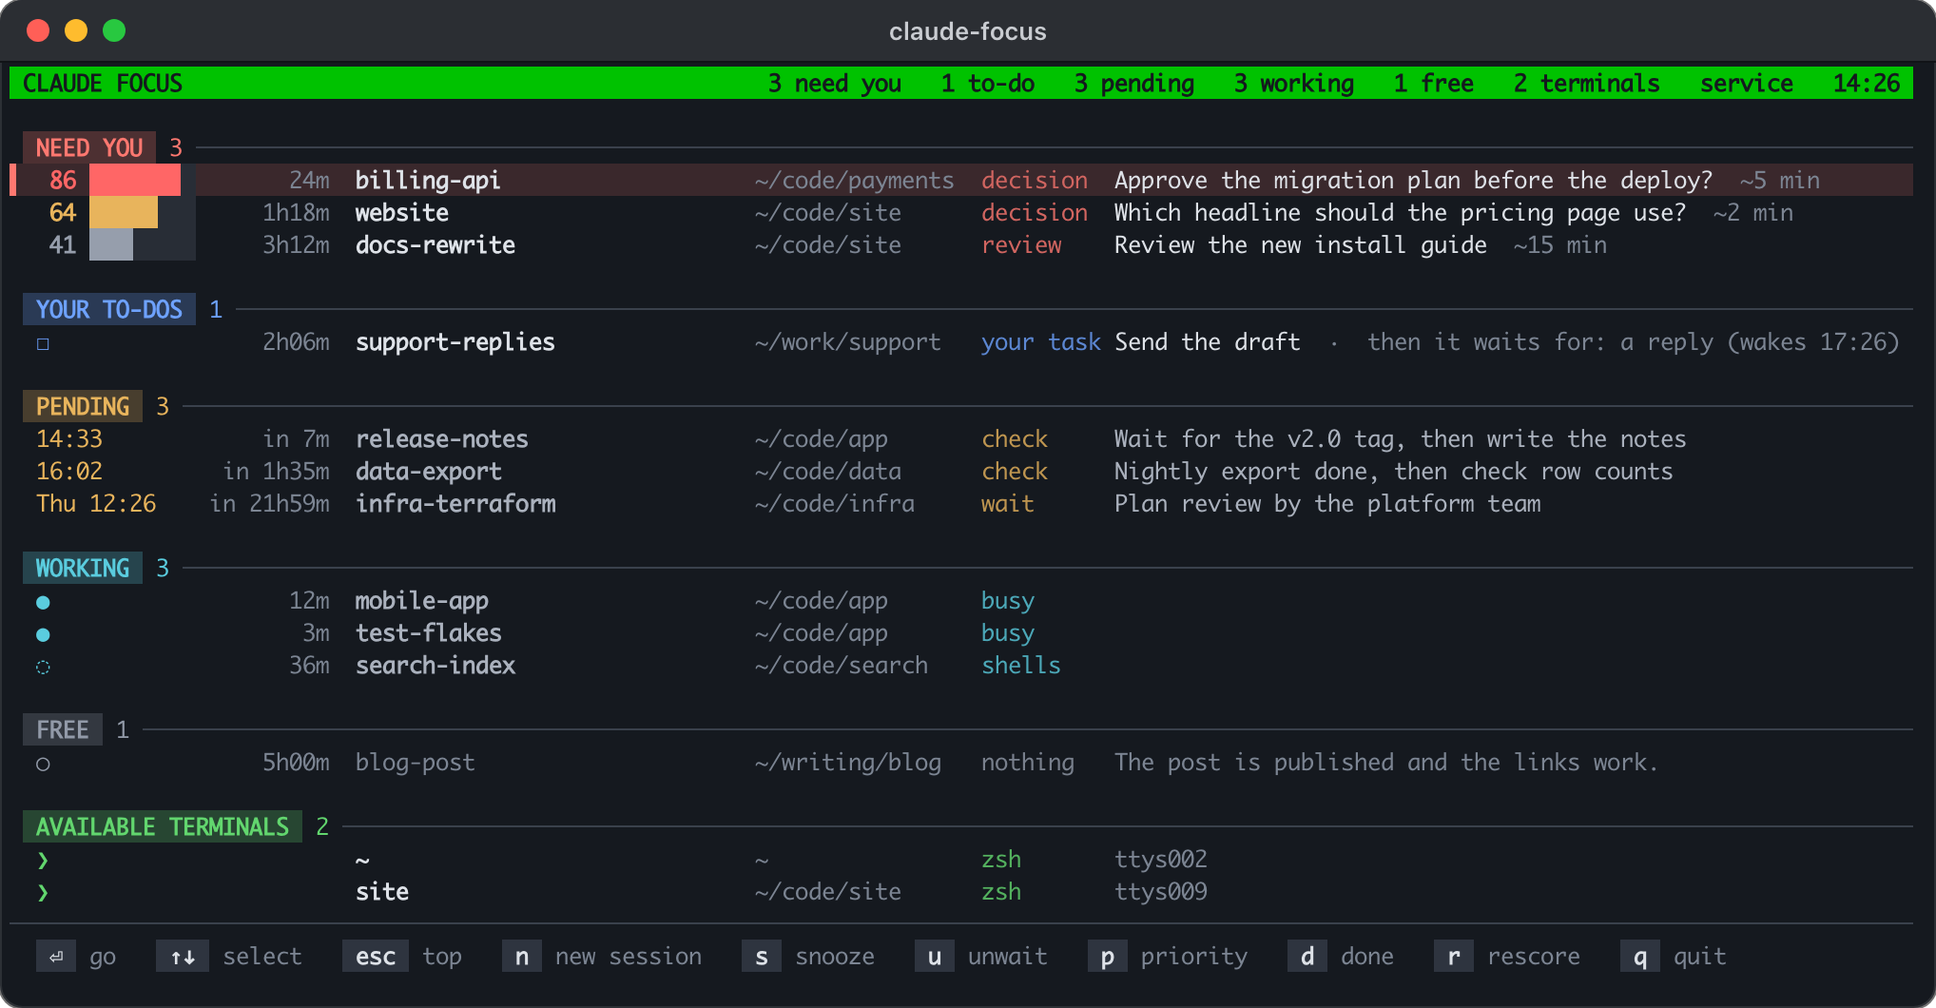
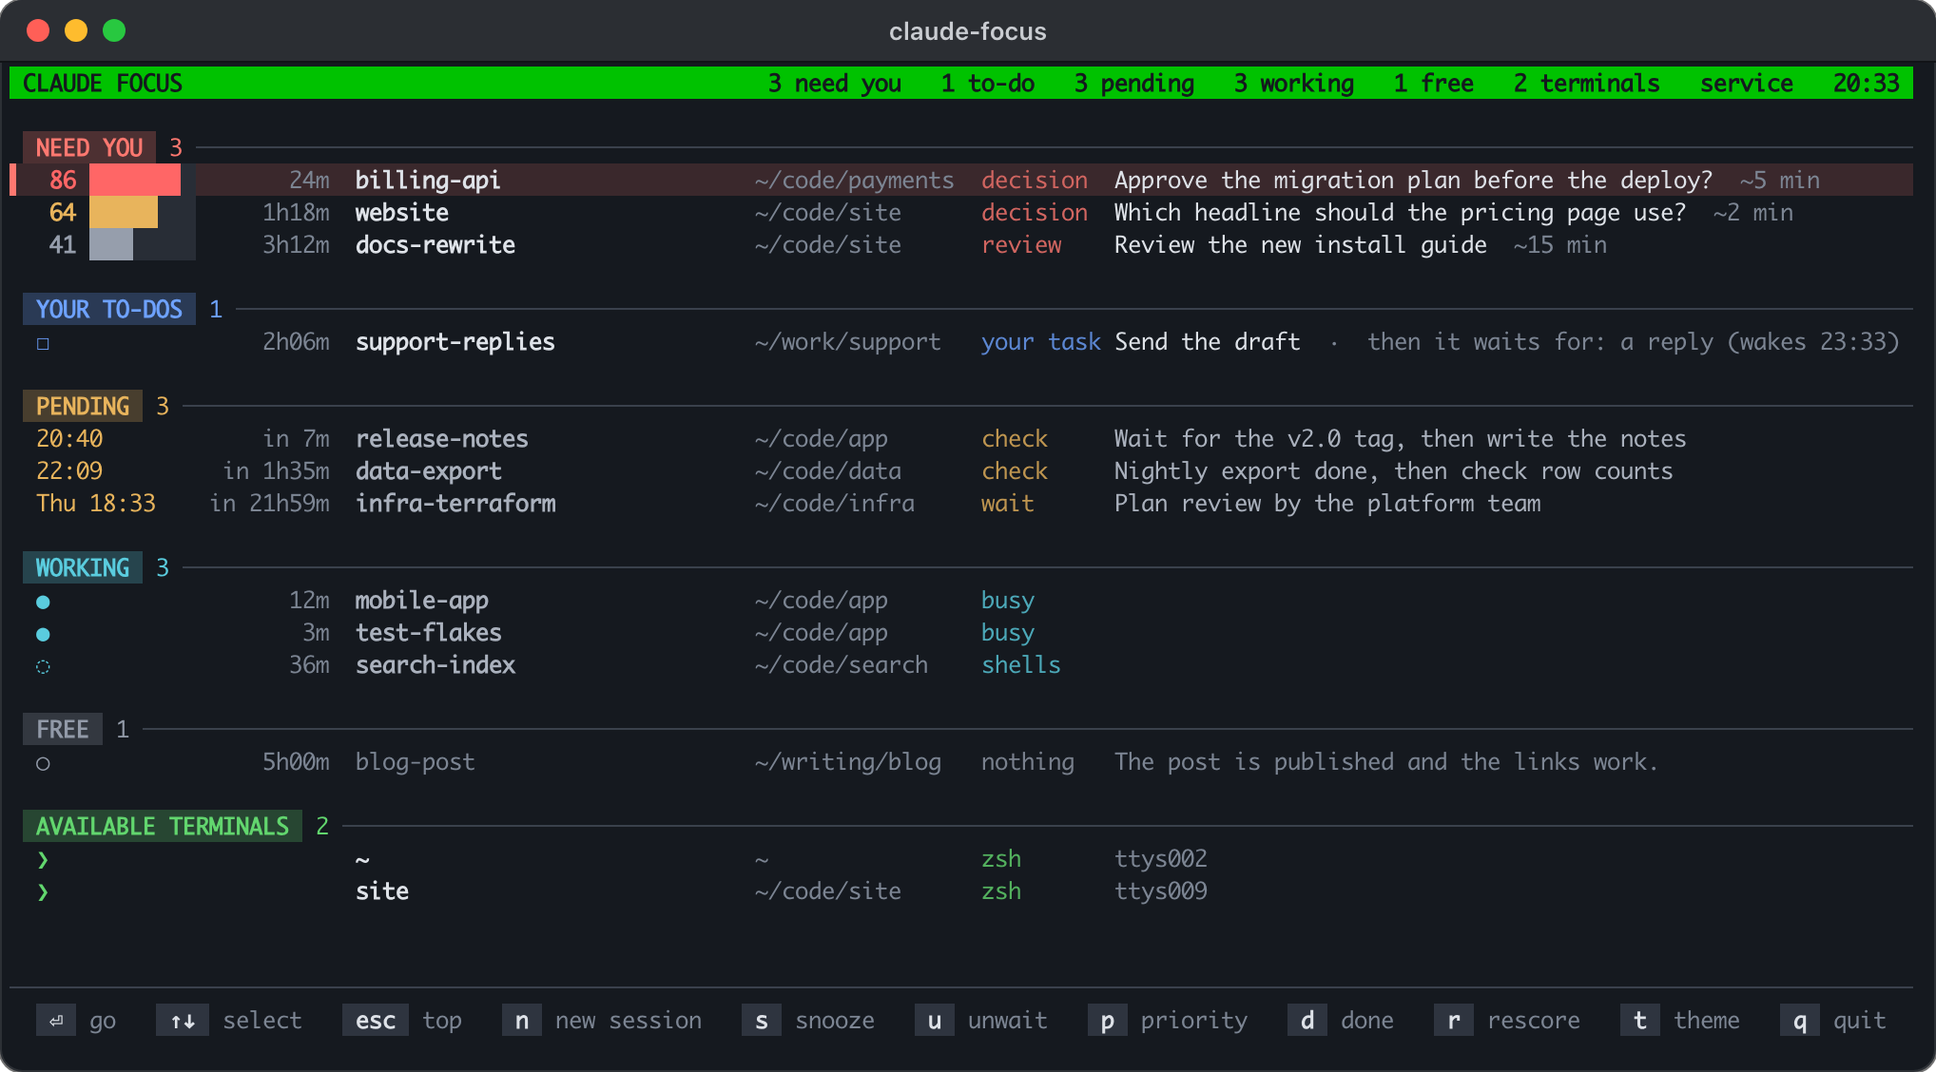
Focus screen: themes, with a Norton Commander theme
A theme is a pair of palettes (dark and light appearance) in
look.THEMES; config "theme" picks one, and t on the focus screen
switches to the next and saves it. "default" is the look so far and
draws exactly as before. "norton" is Norton Commander: a blue screen it
paints itself (\033[K fills the last column), the list in a double-line
frame with ╟─ section ─╢ dividers, a black-on-cyan selection bar and
title bar, and a key bar with white-on-black keys and black-on-cyan
labels. A few palette keys (paint, frame, select, bar, keys, keys_bg)
say how a theme is drawn; the default palettes have none. The folder
picker and the start step draw inside the frame too. README: a Themes
section, the t key, the theme config row, both screenshots at 30 rows.

diff --git a/claude_focus/app.py b/claude_focus/app.py
@@ -151,7 +151,8 @@ class App:
         self.seen_written = 0     # Unix ms of the last write of state["seen"]
         self.terminals = []       # the free terminals (see _free_terminals); only a focus window reads them
         self.claude_panes = {}    # iterm session id -> (session name, Unix s last seen) of panes that ran a session
-        self.pal = look.DARK      # the colors of the terminal's theme now
+        self.pal = look.DARK      # the colors now: config "theme" for the terminal's appearance
+        self.appearance = "dark"  # the terminal's appearance (bridge.theme)
         self.pick = None          # the folder picker: {"term": free terminal, "sel": row}
         self.folders = []         # its folders (see folders.candidates)
         self.matches = []         # the folders that match what the user typed (self.buf)
@@ -166,7 +167,8 @@ class App:
         await self.bridge.refresh()
         if not self.headless and not self.passive:
             self.terminals = await self._free_terminals()
-            self.pal = look.palette(await self.bridge.theme())
+            self.appearance = await self.bridge.theme()
+            self.pal = look.palette(self.appearance, self.cfg["theme"])
         # The service is the preferred engine. A focus window is the engine
         # only while no service runs, and it hands the role back when one does.
         if self.engine and not self.headless and pend.service_alive():
@@ -750,6 +752,17 @@ class App:
         self.sel = None
         await self.bridge.go(term["pane"], zoom=self.cfg["zoom"])
 
+    def next_theme(self):
+        """Key t: the next theme of look.THEMES, kept in the config."""
+        names = list(look.THEMES)
+        now = self.cfg["theme"]
+        name = names[(names.index(now) + 1) % len(names)] if now in names else names[0]
+        self.cfg["theme"] = name
+        self.pal = look.palette(self.appearance, name)
+        store.ensure()
+        store._write(store.CONFIG, dict(store._read(store.CONFIG, {}), theme=name))
+        self.flash(f"Theme: {name}. t switches to the next one ({', '.join(names)}).")
+
     def _update_selected(self, fn, done_text):
         sec, item = self.selected()
         if not item:
@@ -854,6 +867,8 @@ class App:
                 self.sel = None
             elif key == "n":
                 await self.pick_folder()
+            elif key == "t":
+                self.next_theme()
             elif sec == "terminals" and key in ("s", "p", "d", "u", "r"):
                 self.flash("A free terminal: Enter starts a new session in it.")
             elif key == "s" and item:
@@ -1058,12 +1073,32 @@ class App:
         if cols["kind"]:
             line += look.pad(f"{fg(mix(P[sec], P['bg'], 0.8))}{look.cut(kind, cols['kind'])}{R}", cols["kind"]) + " "
         line += "".join(t + "  " for t in tags) + fg(P[text_tone]) + text + R
-        return look.on(line, mix(P[sec], P["bg"], 0.16), w) if selected else fit(line, w)
+        return self._on(line, P[sec], w) if selected else fit(line, w)
+
+    def _on(self, line, color, w):
+        """The selected row: on a tint of its section's color; in a theme with
+        a selection bar (Norton Commander), all in the bar's colors."""
+        P = self.pal
+        if P.get("select"):
+            text, back = P["select"]
+            return look.on(fg(text) + look.ANSI.sub("", line), back, w)
+        return look.on(line, mix(color, P["bg"], 0.16), w)
 
     def section_title(self, sec, title, n, w):
         P, acc = self.pal, self.pal[sec]
-        head = f" {bg(mix(acc, P['bg'], 0.24))}{fg(acc)}{B} {title} {R} {fg(acc)}{n}{R} "
+        count = f" {fg(acc)}{n}{R}" if n != "" else ""  # "": a title without a count (the start step)
+        if P.get("frame"):  # a divider of the frame: ╟─ NEED YOU 3 ───╢ (see _framed)
+            head = f"{fg(P['frame'])}─ {fg(acc)}{B}{title}{R}{count} "
+            return head + fg(P["frame"]) + "─" * max(0, w - width(head)) + R
+        head = f" {bg(mix(acc, P['bg'], 0.24))}{fg(acc)}{B} {title} {R}{count} "
         return head + fg(P["faint"]) + "─" * max(0, w - width(head)) + R
+
+    def _framed(self, line, inner):
+        """A line of the list inside the theme's frame. A section title (it
+        starts with ─) joins the frame as a divider."""
+        fc = fg(self.pal["frame"])
+        side = "╟╢" if look.ANSI.sub("", line).startswith("─") else "║║"
+        return f"{fc}{side[0]}{R}" + look.pad(fit(line, inner), inner) + f"{fc}{side[1]}{R}"
 
     def _title_line(self, v, w, now):
         P = self.pal
@@ -1077,7 +1112,8 @@ class App:
         if self.focused:  # a full-width green bar: this window gets the keys
             right = "   ".join([f"{n} {COUNT_LABEL[sec]}" for sec, n in counts] + extra + [clock])
             gap = " " * max(1, w - 14 - len(right))
-            return f"{FOCUS_BAR} CLAUDE FOCUS{gap}{right} {R}"
+            bar = fg(P["bar"][0]) + bg(P["bar"][1]) + B if P.get("bar") else FOCUS_BAR
+            return f"{bar} CLAUDE FOCUS{gap}{right} {R}"
         parts = [f"{fg(P[sec]) if n else fg(P['faint'])}{B}{n}{R} {fg(P['dim'])}{COUNT_LABEL[sec]}{R}"
                  for sec, n in counts]
         right = "   ".join(parts + [f"{fg(P['dim'])}{x}{R}" for x in extra] + [f"{fg(P['text'])}{clock}{R}"])
@@ -1099,7 +1135,7 @@ class App:
             on = self._creating()
             line = (f"{fg(acc)}▌{R} " if on else "  ") + f"{fg(acc)}{B}+ new folder{R} " \
                 f"{fg(P['text'] if on else P['soft'])}{look.cut_left(short_path(self.new_folder), w - 20)}{R}"
-            new = [look.on(line, mix(acc, P["bg"], 0.16), w) if on else line]
+            new = [self._on(line, acc, w) if on else line]
         if not self.matches:
             return lines + [f"  {dim}No folder matches.{R}"] + new
         sel = min(self.pick["sel"], len(self.matches) - 1)
@@ -1116,7 +1152,7 @@ class App:
             body = "".join(f"{fg(acc)}{B}{c}{R}" if i in hit else f"{tone}{c}{R}" for i, c in enumerate(text))
             age = ago(when) if used else "no recent session"
             line = (f"{fg(acc)}▌{R} " if selected else "  ") + look.pad(body, pw) + f"  {dim}{age}{R}"
-            lines.append(look.on(line, mix(acc, P["bg"], 0.16), w) if selected else line)
+            lines.append(self._on(line, acc, w) if selected else line)
         return lines + new
 
     def _start_lines(self, w):
@@ -1138,7 +1174,7 @@ class App:
             line = ((f"{fg(acc)}▌{R} " if on else "  ") + f"{fg(acc)}{B}{key}{R}  "
                     f"{fg(P['text'] if on else P['soft'])}{look.pad(label, lw)}{R}"
                     f"   {dim}{self.cfg['new_session_command']}{flags}{R}")
-            lines.append(look.on(line, mix(acc, P["bg"], 0.16), w) if on else line)
+            lines.append(self._on(line, acc, w) if on else line)
         return lines
 
     def render(self):
@@ -1157,11 +1193,13 @@ class App:
             top_lines.append(f"  {fg(P['pending'])}{B}{n} window{'s' if n != 1 else ''} from before the iTerm2 "
                              f"restart {'are' if n != 1 else 'is'} closed (layout saved {when}). "
                              f"Press R to restore them.{R}")
-        top_lines.append("")
+        frame = P.get("frame")  # a theme that frames the list (Norton Commander): two columns less inside
+        inner = w - 2 if frame else w
+        top_lines.append(f"{fg(frame)}╔{'═' * inner}╗{R}" if frame else "")
 
         # The keys are the last line of the screen, the flash just above the rule.
         bottom_lines = [f"  {fg(P['working'])}{self.msg}{R}" if self.msg and time.time() < self.msg_until else "",
-                        fg(P["faint"]) + "─" * w + R]
+                        f"{fg(frame)}╚{'═' * inner}╝{R}" if frame else fg(P["faint"]) + "─" * w + R]
         if self.mode == "restore" and self.restore_lines:
             bottom_lines += [f"  {fg(P['pending'])}{B}{self.restore_lines[0]}{R}"]
             bottom_lines += [f"  {fg(P['text'])}{line}{R}" for line in self.restore_lines[1:]] + [""]
@@ -1172,9 +1210,9 @@ class App:
         sec, item = self.selected()
         list_lines, sel_line = [], None
         if self.mode == "folders":
-            list_lines = self._folder_lines(w, room)
+            list_lines = self._folder_lines(inner, room)
         elif self.mode == "start":
-            list_lines = self._start_lines(w)
+            list_lines = self._start_lines(inner)
         elif not self.rows():
             list_lines += [f"  {fg(P['dim'])}No Claude sessions and no free terminal.{R}"]
         elif not v.get("need") and not v.get("todo"):
@@ -1184,11 +1222,11 @@ class App:
                 continue
             if list_lines:
                 list_lines.append("")
-            list_lines.append(self.section_title(key, title, len(v[key]), w))
+            list_lines.append(self.section_title(key, title, len(v[key]), inner))
             for i in v[key]:
                 if i is item:
                     sel_line = len(list_lines)
-                list_lines.append(self.row(key, i, w, selected=i is item))
+                list_lines.append(self.row(key, i, inner, selected=i is item))
         start = 0
         if len(list_lines) > room and sel_line is not None and sel_line >= room - 1:
             start = min(sel_line - room + 2, len(list_lines) - room)
@@ -1196,18 +1234,27 @@ class App:
         if start + room < len(list_lines):
             shown[-1] = f"  {fg(P['dim'])}… {len(list_lines) - start - room + 1} more lines (↓){R}"
         shown += [""] * (room - len(shown))  # a short list: blank lines push the keys down
-        lines =[fit(x, w) for x in top_lines + shown + bottom_lines]
+        if frame:
+            shown = [self._framed(x, inner) for x in shown]
+            bottom_lines[0] = self._framed(bottom_lines[0], inner)
+        lines = [fit(x, w) for x in top_lines + shown + bottom_lines]
+        if P.get("paint"):  # every line on the theme's background, the keys on theirs; \033[K fills the rest
+            lines = [look.on(x, P["keys_bg"] if n == len(lines) - 1 else P["bg"], w)[:-len(R)]
+                     for n, x in enumerate(lines)]
         frame = "\n".join(lines)
         if frame == self.last_frame:
             return
         self.last_frame = frame
         # Synchronized update + overwrite in place (no full clear): no flicker.
         body = "\033[K\n".join(lines)
-        sys.stdout.write("\033[?2026h\033[H" + body + "\033[K\033[J\033[?2026l")
+        sys.stdout.write("\033[?2026h\033[H" + body + "\033[K\033[J" + R + "\033[?2026l")
         sys.stdout.flush()
 
     def _key(self, cap, label):
         P = self.pal
+        if P.get("keys"):  # a key bar: the key, then its label in a field of its own
+            cap_fg, cap_bg, label_fg, label_bg = P["keys"]
+            return f"{bg(cap_bg)}{fg(cap_fg)}{B}{cap}{R}{bg(label_bg)}{fg(label_fg)} {label} {R}"
         return f"{bg(P['key'])}{fg(P['text'])}{B} {cap} {R} {fg(P['dim'])}{label}{R}"
 
     def _keys_line(self, now):
@@ -1236,13 +1283,16 @@ class App:
                                      self._key("↑↓", "select"), self._key("⇥", "just go to the terminal"),
                                      self._key("esc", "cancel")])
         keys = [("⏎", "go"), ("↑↓", "select"), ("esc", "top"), ("n", "new session"), ("s", "snooze"),
-                ("u", "unwait"), ("p", "priority"), ("d", "done"), ("r", "rescore"), ("q", "quit")]
+                ("u", "unwait"), ("p", "priority"), ("d", "done"), ("r", "rescore"), ("t", "theme"),
+                ("q", "quit")]
         if self.cfg.get("hotkeys"):
             hk = self.cfg["hotkey_go"].replace("ctrl", "⌃").replace("option", "⌥").replace("+", "").upper()
             keys.insert(3, (hk, "go to top"))
         wide = "  " + "   ".join(self._key(c, label) for c, label in keys)
         if width(wide) <= shutil.get_terminal_size((100, 40)).columns - 1:
             return wide
+        if P.get("keys"):  # the key bar keeps its fields, with one-word labels
+            return " " + " ".join(self._key(c, label.split()[-1]) for c, label in keys)
         return "  " + "  ".join(f"{fg(P['text'])}{B}{c}{R} {fg(P['dim'])}{label.split()[-1]}{R}" for c, label in keys)
 
     # ---- loops ------------------------------------------------------------

diff --git a/tests/test_render.py b/tests/test_render.py
@@ -1,3 +1,4 @@
+import asyncio
 import contextlib
 import io
 import os
@@ -206,6 +207,49 @@ class LayoutTest(unittest.TestCase):
         self.app.pal = look.palette("light highContrast")
         raw = "\n".join(self.screen([self.short], "short", raw=True))
         self.assertIn(look.bg(look.mix(look.LIGHT["need"], look.LIGHT["bg"], 0.16)), raw)
+
+
+class ThemeTest(unittest.TestCase):
+    """Themes (config "theme", key t): the default one, and Norton Commander."""
+
+    setUp, screen = LayoutTest.setUp, LayoutTest.screen
+
+    def test_palettes(self):
+        self.assertIs(look.palette("dark"), look.DARK)
+        self.assertIs(look.palette("light", "default"), look.LIGHT)
+        self.assertIs(look.palette("light", "norton"), look.NORTON)  # blue in a light terminal too
+        self.assertIs(look.palette("dark", "no-such-theme"), look.DARK)
+
+    def test_t_switches_and_keeps_the_theme(self):
+        self.app.flash = mock.Mock()
+        self.assertEqual(self.app.cfg["theme"], "default")
+        asyncio.run(self.app.on_key("t"))
+        self.assertEqual((self.app.cfg["theme"], self.app.pal), ("norton", look.NORTON))
+        self.assertEqual(appmod.store.load_config()["theme"], "norton")
+        self.assertIn("Theme: norton", self.app.flash.call_args[0][0])
+        asyncio.run(self.app.on_key("t"))  # and round again
+        self.assertEqual((self.app.pal, appmod.store.load_config()["theme"]), (look.DARK, "default"))
+
+    def test_norton_commander(self):
+        self.app.pal = look.NORTON
+        raw = self.screen([self.short, self.long], "short", lines=30, raw=True)
+        screen = [ANSI.sub("", x) for x in raw]
+        self.assertEqual(len(screen), 30)
+        self.assertTrue(all(len(x) == 119 for x in screen))  # every line painted to the full width
+        self.assertTrue(all(x.startswith(look.bg(look.NORTON["bg"])) for x in raw[1:-1]))  # raw[0]: \033[H first
+        self.assertTrue(raw[-1].startswith(look.bg(look.NORTON["keys_bg"])))  # the key bar
+        self.assertTrue(screen[1].startswith("╔═") and screen[1].endswith("═╗"))
+        self.assertTrue(screen[-2].startswith("╚═") and screen[-2].endswith("═╝"))
+        self.assertTrue(all(x[0] in "║╟" and x[-1] in "║╢" for x in screen[2:-2]))
+        self.assertTrue(any(x.startswith("╟─ NEED YOU 1 ─") for x in screen))
+        row = next(x for x in raw if "short" in ANSI.sub("", x))
+        self.assertIn(look.bg((0, 170, 170)) + look.fg((0, 0, 0)), row)  # the selection bar: black on cyan
+        self.assertIn("go", screen[-1])
+
+    def test_the_default_theme_has_no_frame_and_no_paint(self):
+        raw = self.screen([self.short], "short", lines=30, raw=True)
+        self.assertFalse(any("║" in x or "╔" in x for x in raw))
+        self.assertNotIn(look.bg(look.DARK["bg"]), "".join(raw))
 
 
 class FormatTest(unittest.TestCase):

diff --git a/claude_focus/look.py b/claude_focus/look.py
@@ -1,8 +1,9 @@
 """Colors and small drawing helpers for the focus screen. It uses 24-bit
-color (iTerm2 has it), with one palette for iTerm2's dark theme and one for
-its light theme. Each section has its own color: NEED YOU coral, YOUR
-TO-DOS blue, PENDING amber, WORKING cyan, FREE grey, free terminals green.
-The screen needs no iTerm2 profile for them."""
+color (iTerm2 has it). A theme (THEMES, config "theme") has one palette for
+the terminal's dark appearance and one for its light one. In the default
+theme each section has its own color: NEED YOU coral, YOUR TO-DOS blue,
+PENDING amber, WORKING cyan, FREE grey, free terminals green. The screen
+needs no iTerm2 profile for them."""
 import re
 
 ANSI = re.compile(r"\x1b\[[0-9;?]*[A-Za-z]")
@@ -40,10 +41,32 @@ LIGHT = {
     "high": (200, 40, 40), "mid": (168, 104, 0), "low": (118, 126, 138),
 }
 
+# Norton Commander: the 16 colors of a DOS screen, the same in a dark and a
+# light terminal. Besides the colors, the keys below say how App.render
+# draws a theme; the default theme has none of them.
+NORTON = {
+    "bg": (0, 0, 170),
+    "text": (255, 255, 255), "soft": (85, 255, 255), "dim": (0, 170, 170), "faint": (0, 170, 170),
+    "track": (0, 0, 110), "key": (0, 0, 0), "alert": (255, 85, 85),
+    "need": (255, 255, 85), "todo": (255, 255, 255), "pending": (255, 85, 255),
+    "working": (85, 255, 255), "free": (0, 170, 170), "terminals": (85, 255, 85),
+    "high": (255, 85, 85), "mid": (255, 255, 85), "low": (0, 170, 170),
+    "paint": True,                         # the screen paints its own background (else the terminal's shows)
+    "frame": (85, 255, 255),               # the list in a double-line frame of this color
+    "select": ((0, 0, 0), (0, 170, 170)),  # the selected row all in these colors: black on cyan
+    "bar": ((0, 0, 0), (0, 170, 170)),     # the title bar while the window has the keys
+    "keys": ((255, 255, 255), (0, 0, 0), (0, 0, 0), (0, 170, 170)),  # a key white on black, its label black on cyan
+    "keys_bg": (0, 0, 0),                  # the line of the keys
+}
+THEMES = {"default": (DARK, LIGHT), "norton": (NORTON, NORTON)}  # name -> (dark, light); key t switches
 
-def palette(theme):
-    """iTerm2's effectiveTheme ("dark", "light", "light highContrast", ...)."""
-    return LIGHT if "light" in (theme or "") else DARK
+
+def palette(appearance, theme="default"):
+    """The palette of a theme (an unknown name: the default) for the
+    terminal's appearance: iTerm2's effectiveTheme ("dark", "light",
+    "light highContrast", ...), or macOS's in herdr."""
+    dark, light = THEMES.get(theme) or THEMES["default"]
+    return light if "light" in (appearance or "") else dark
 
 
 def width(s):

diff --git a/claude_focus/store.py b/claude_focus/store.py
@@ -34,6 +34,7 @@ DEFAULT_CONFIG = {
     "hotkeys": False,                   # iTerm2: only in a focus window; not in the service
     "hotkey_go": "ctrl+option+n",
     "hotkey_focus_window": "ctrl+option+f",
+    "theme": "default",                 # the focus screen's look: "default" or "norton" (look.THEMES); key t switches
     "zoom": True,
     "return_after_answer": True,        # after Enter on a question: come back when it is answered
     "free_profile": "Available",        # the iTerm2 profile (the green one) of a free terminal

diff --git a/README.md b/README.md
@@ -200,12 +200,30 @@ more amber, and the rest grey. Alerts are red: a wake-up that could not be
 typed, a duplicate window, a session without a pane. What needs you is
 bright, PENDING and WORKING are softer, and FREE is grey. The selected row
 has a tinted background and a ▌ at the left. The screen uses 24-bit color
-and follows the theme: iTerm2's, or macOS's in herdr.
+and follows the terminal's dark or light appearance: iTerm2's, or macOS's
+in herdr.
+
+### Themes
+
+`t` switches to the next theme and keeps it in the config (`"theme"`).
+There are two:
+
+- `default`: the look described above, on the terminal's own background.
+- `norton`: Norton Commander. Blue background, the list in a double-line
+  frame, a black-on-cyan selection bar and title bar, and the keys in a
+  black-and-cyan key bar. It is the same in a dark and a light terminal.
+
+![The Norton Commander theme](docs/screenshot-norton.png)
+
+A theme is a palette in
+[claude_focus/look.py](claude_focus/look.py) (`THEMES`). A few keys in it
+change how the screen is drawn: `paint` (the screen paints its own
+background), `frame`, `select`, `bar`, `keys` and `keys_bg`.
 
 The selection starts on the first row of NEED YOU (else of YOUR TO-DOS).
 After Enter, it goes back there. The rows never move when the selection
 moves; a long list scrolls to keep the selected row visible. While the focus
-screen has the keys, its title bar is green.
+screen has the keys, its title bar is green (cyan in the Norton theme).
 
 ### Keys
 
@@ -221,6 +239,7 @@ screen has the keys, its title bar is green.
 | d | Done: nothing is needed now; the session comes back when it changes. On a to-do: your part is done |
 | r | Score the selected session again |
 | R | iTerm2: restore the windows of the last iTerm2 run (shown only when some are closed) |
+| t | Switch to the next theme (see "Themes") |
 | q | Quit |
 
 From anywhere: in iTerm2, two optional global hotkeys (`"hotkeys": true` in
@@ -548,6 +567,7 @@ remote machine show without a pane.
 | `poll_seconds` | `3` | How often the state is read |
 | `aging_points_per_hour`, `aging_max` | `0.15`, `10` | The bonus for waiting |
 | `terminal` | `"auto"` | `"auto"`, `"iterm"` or `"herdr"` (see "Which terminal") |
+| `theme` | `"default"` | The focus screen's look: `"default"` or `"norton"` (key `t` switches) |
 | `zoom` | `true` | Maximize (in herdr: zoom) the pane on Enter |
 | `return_after_answer` | `true` | Come back after you answer a question |
 | `new_session_command` | `"claude"` | What a new session in a free terminal runs, after `cd <folder> &&` |
